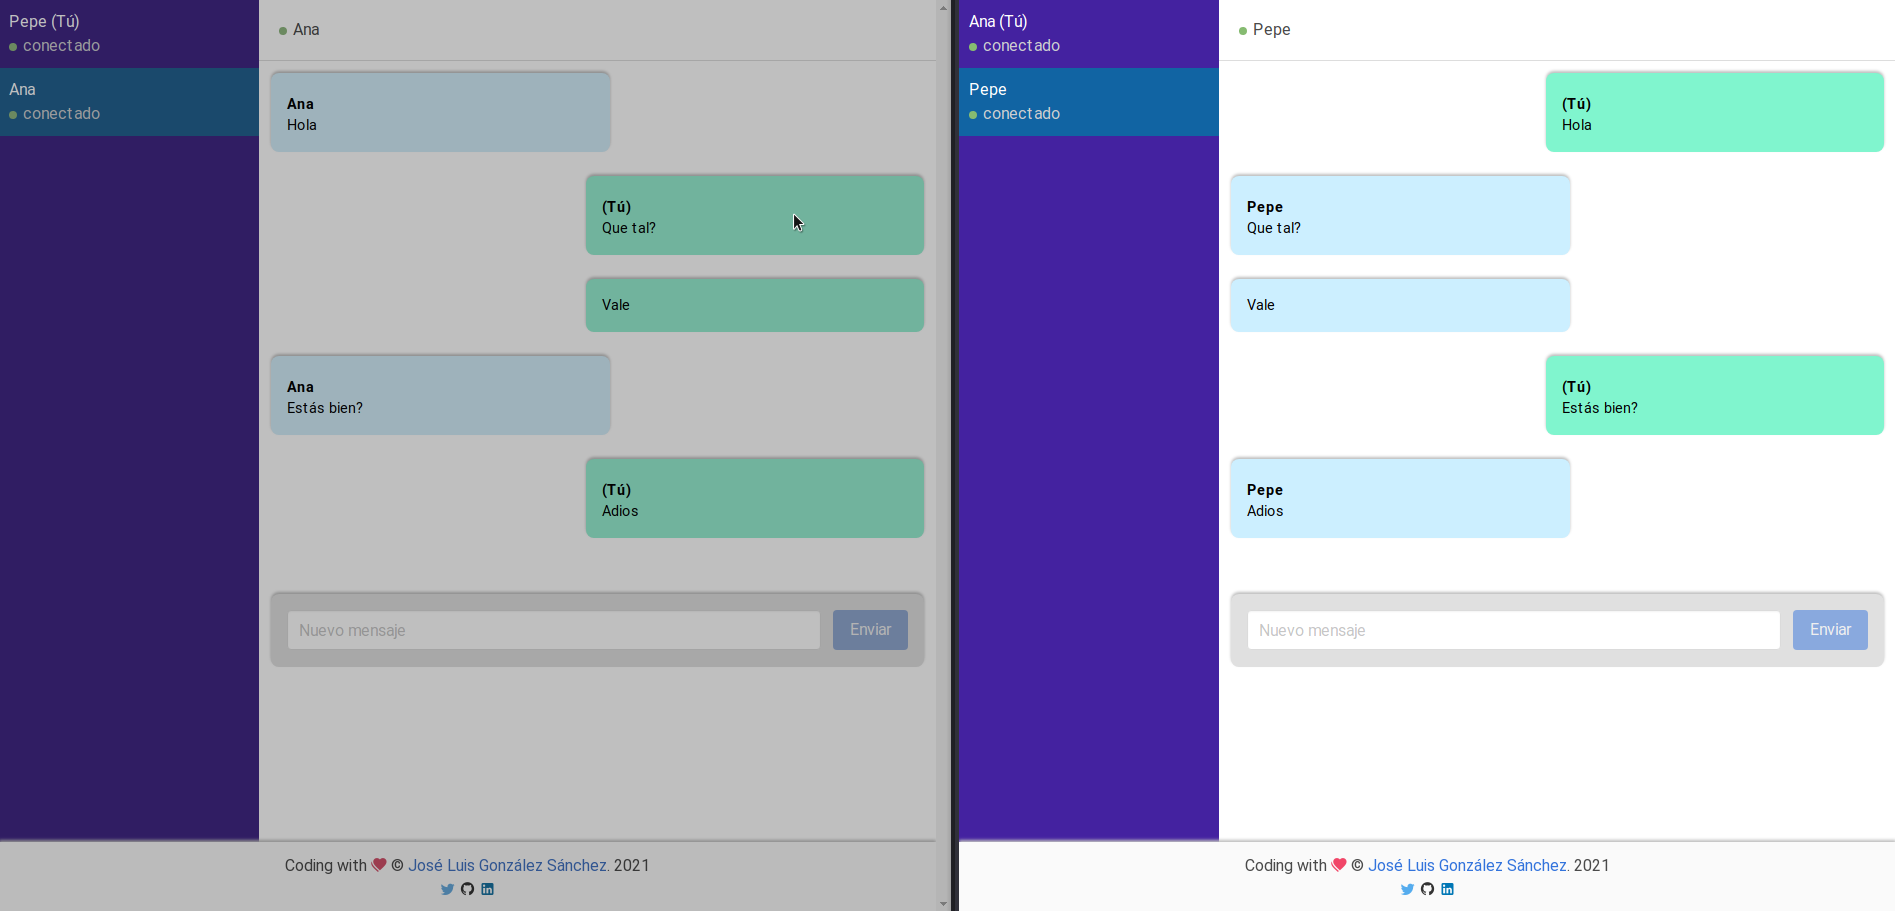
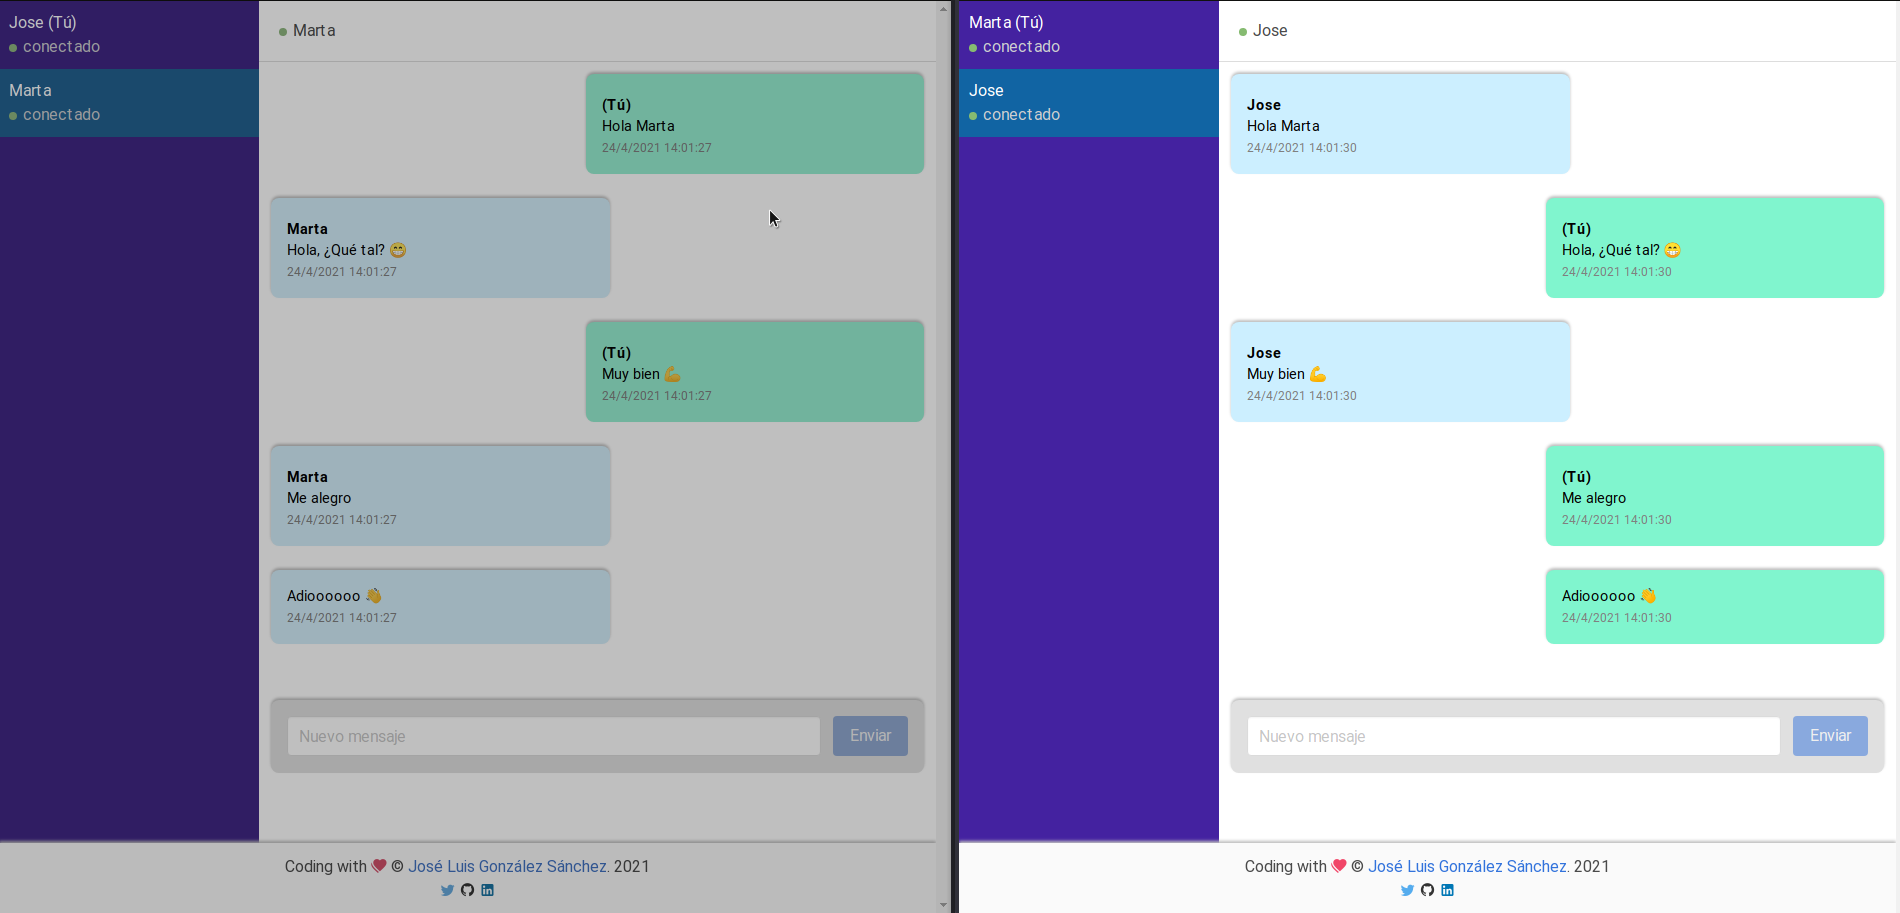
Imagenes y hora

diff --git a/client/src/components/MessagePanel.vue b/client/src/components/MessagePanel.vue
@@ -1,7 +1,7 @@
 <template>
   <div>
     <div class="header">
-      <status-icon :connected="user.connected" />{{ user.username }}
+      <status-icon :connected="user.connected" />👤 {{ user.username }}
     </div>
 
     <ul class="messages">
@@ -14,6 +14,8 @@
           {{ message.fromSelf ? "(Tú)" : user.username }}
         </div>
         {{ message.content }}
+        <br>
+        <span class="time_date">{{getTime}}</span>
       </li>
     </ul>
 
@@ -96,6 +98,10 @@ export default Vue.extend({
     isValid(): boolean {
       return this.input.length > 0;
     },
+    getTime(): string {
+      const time = new Date();
+      return time.toLocaleString('es-ES');
+    },
   },
 });
 </script>
@@ -149,5 +155,9 @@ export default Vue.extend({
   height: 8vh;
   box-shadow: -0px -2px 3px rgb(190, 190, 190);
   border-radius: 8px;
+}
+.time_date {
+  font-size:0.75rem;
+  color: grey
 }
 </style>

diff --git a/client/src/components/User.vue b/client/src/components/User.vue
@@ -1,7 +1,7 @@
 <template>
   <div class="user" @click="onClick" :class="{ selected: selected }">
     <div class="description">
-      <div class="name">
+      <div class="name"> 👤
         {{ user.username }} {{ user.self ? " (Tú)" : "" }}
       </div>
       <div class="status">

diff --git a/client/.eslintrc.js b/client/.eslintrc.js
@@ -10,7 +10,7 @@ module.exports = {
   ],
   parserOptions: {
     ecmaVersion: 2020,
-    tsconfigRootDir: __dirname,
+    // tsconfigRootDir: __dirname,
   },
   rules: {
     'no-console': process.env.NODE_ENV === 'production' ? 'warn' : 'off',
